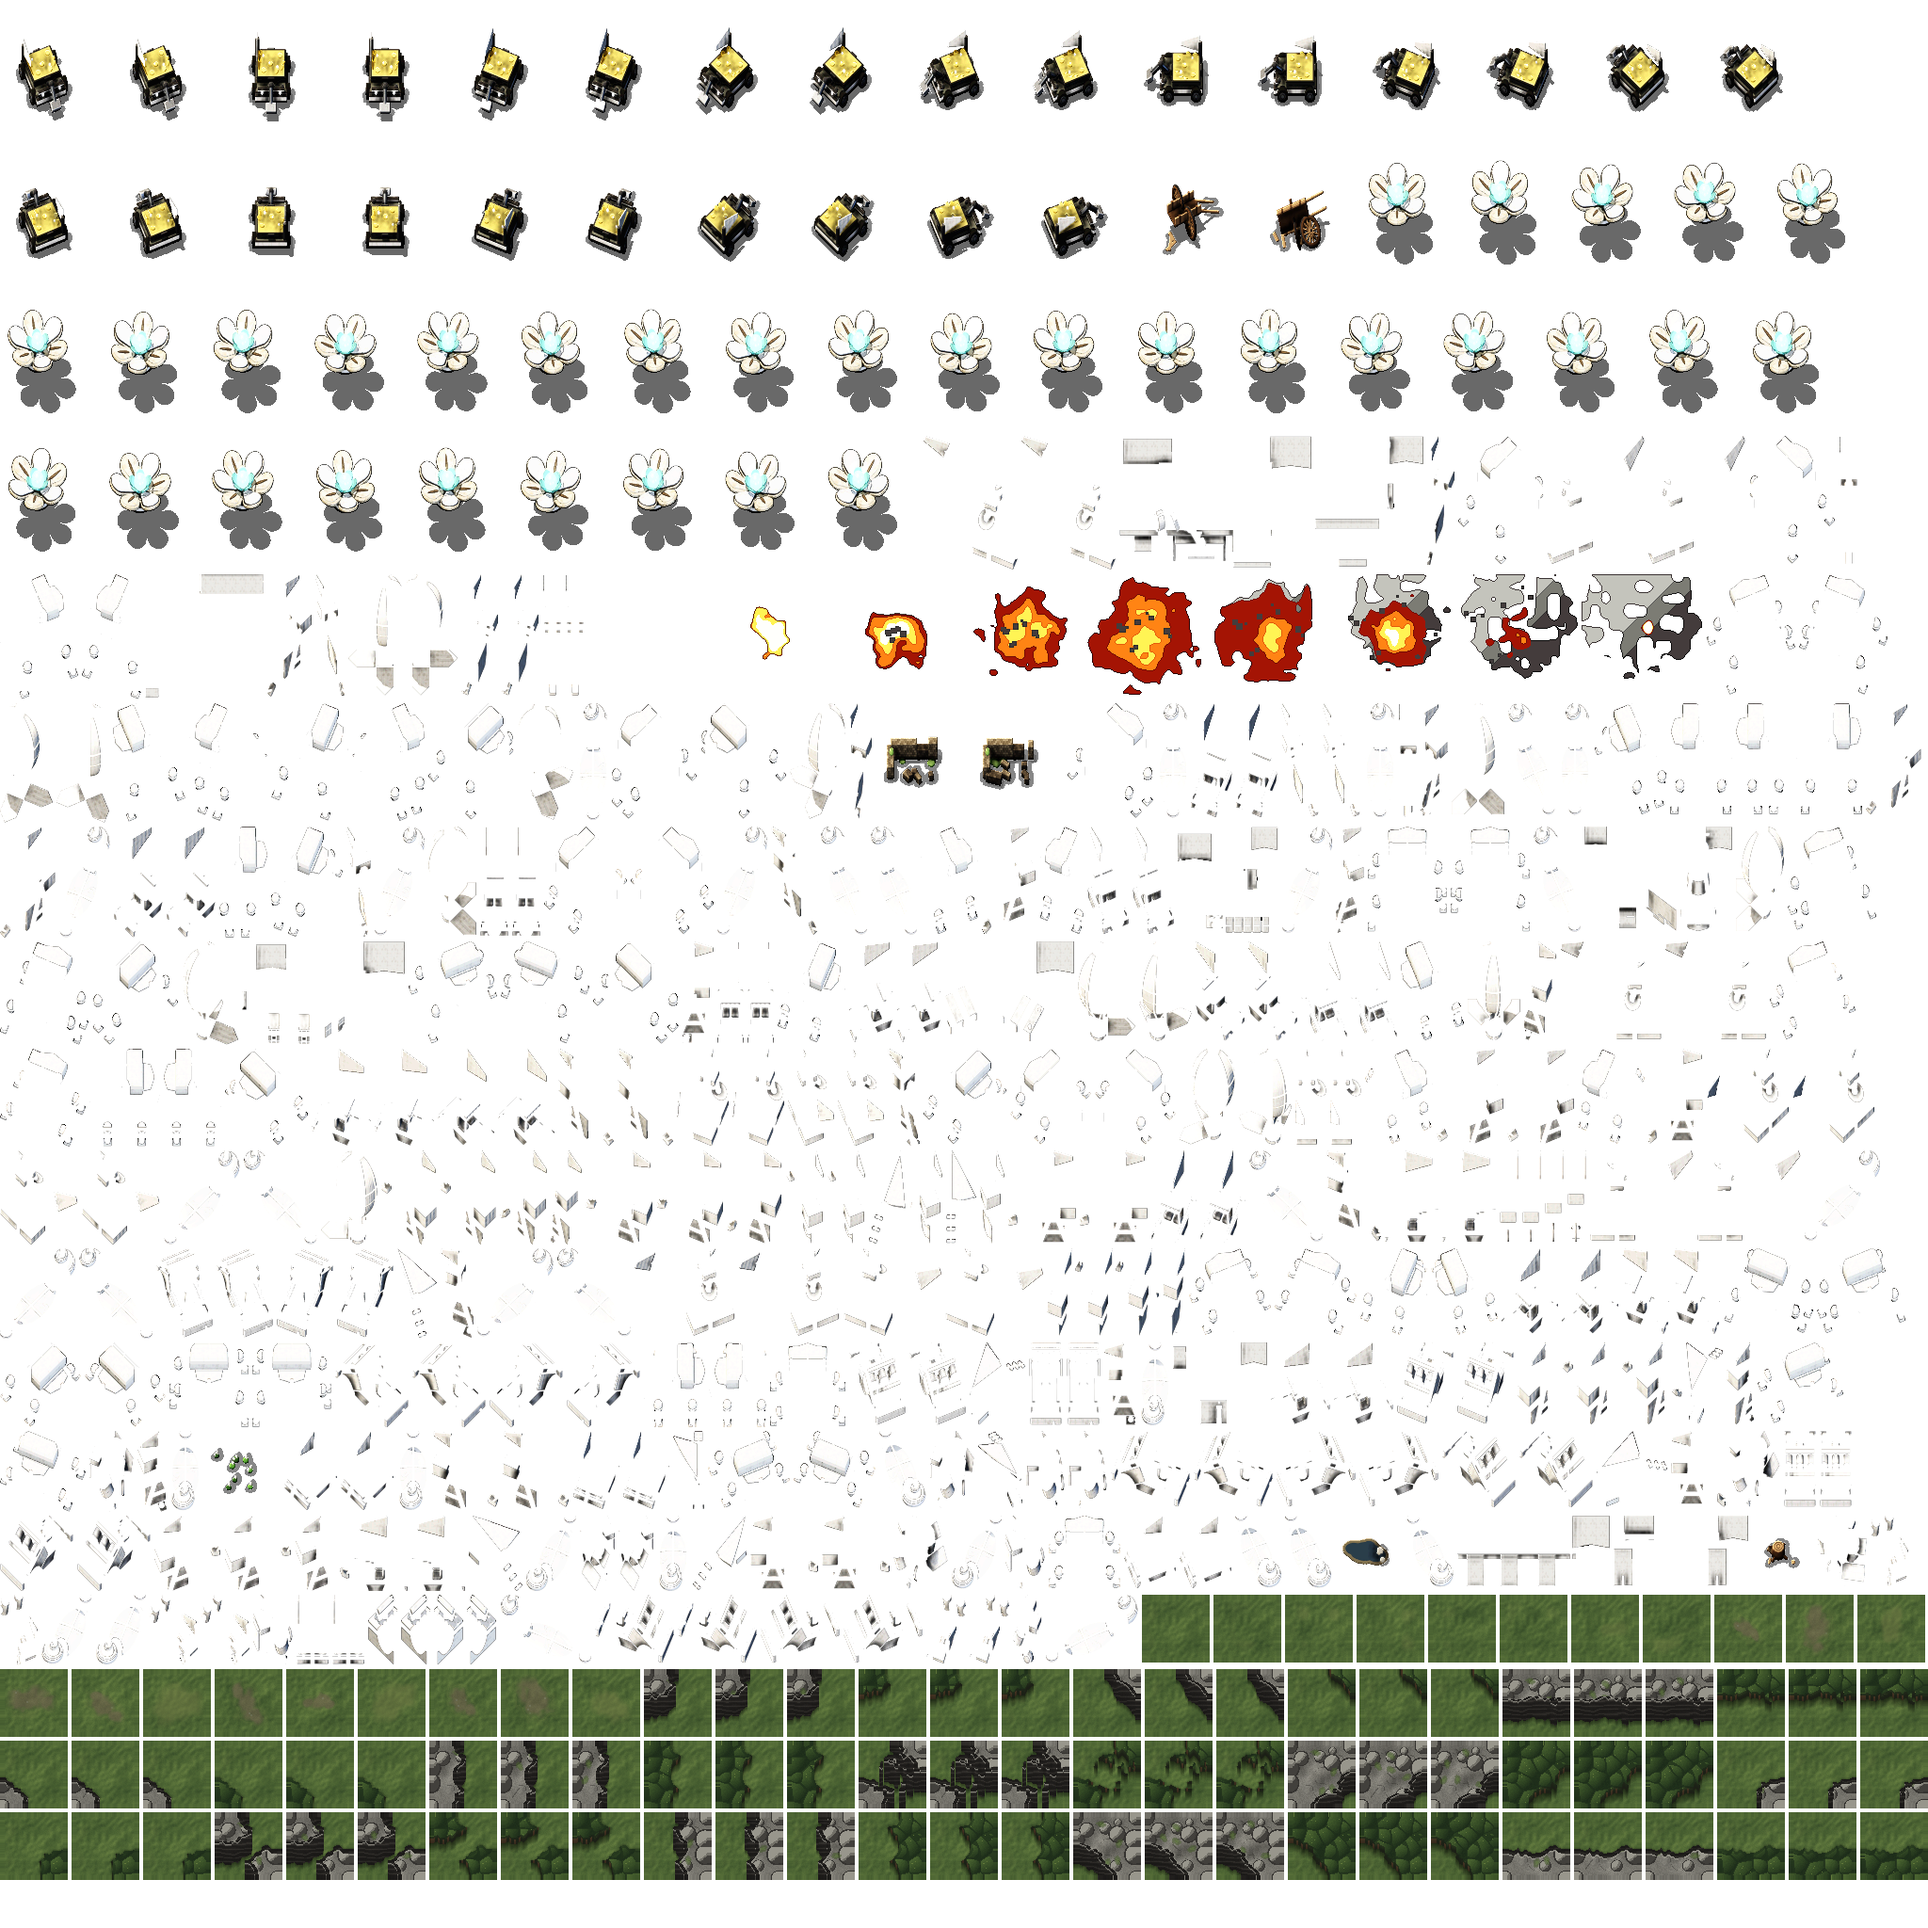
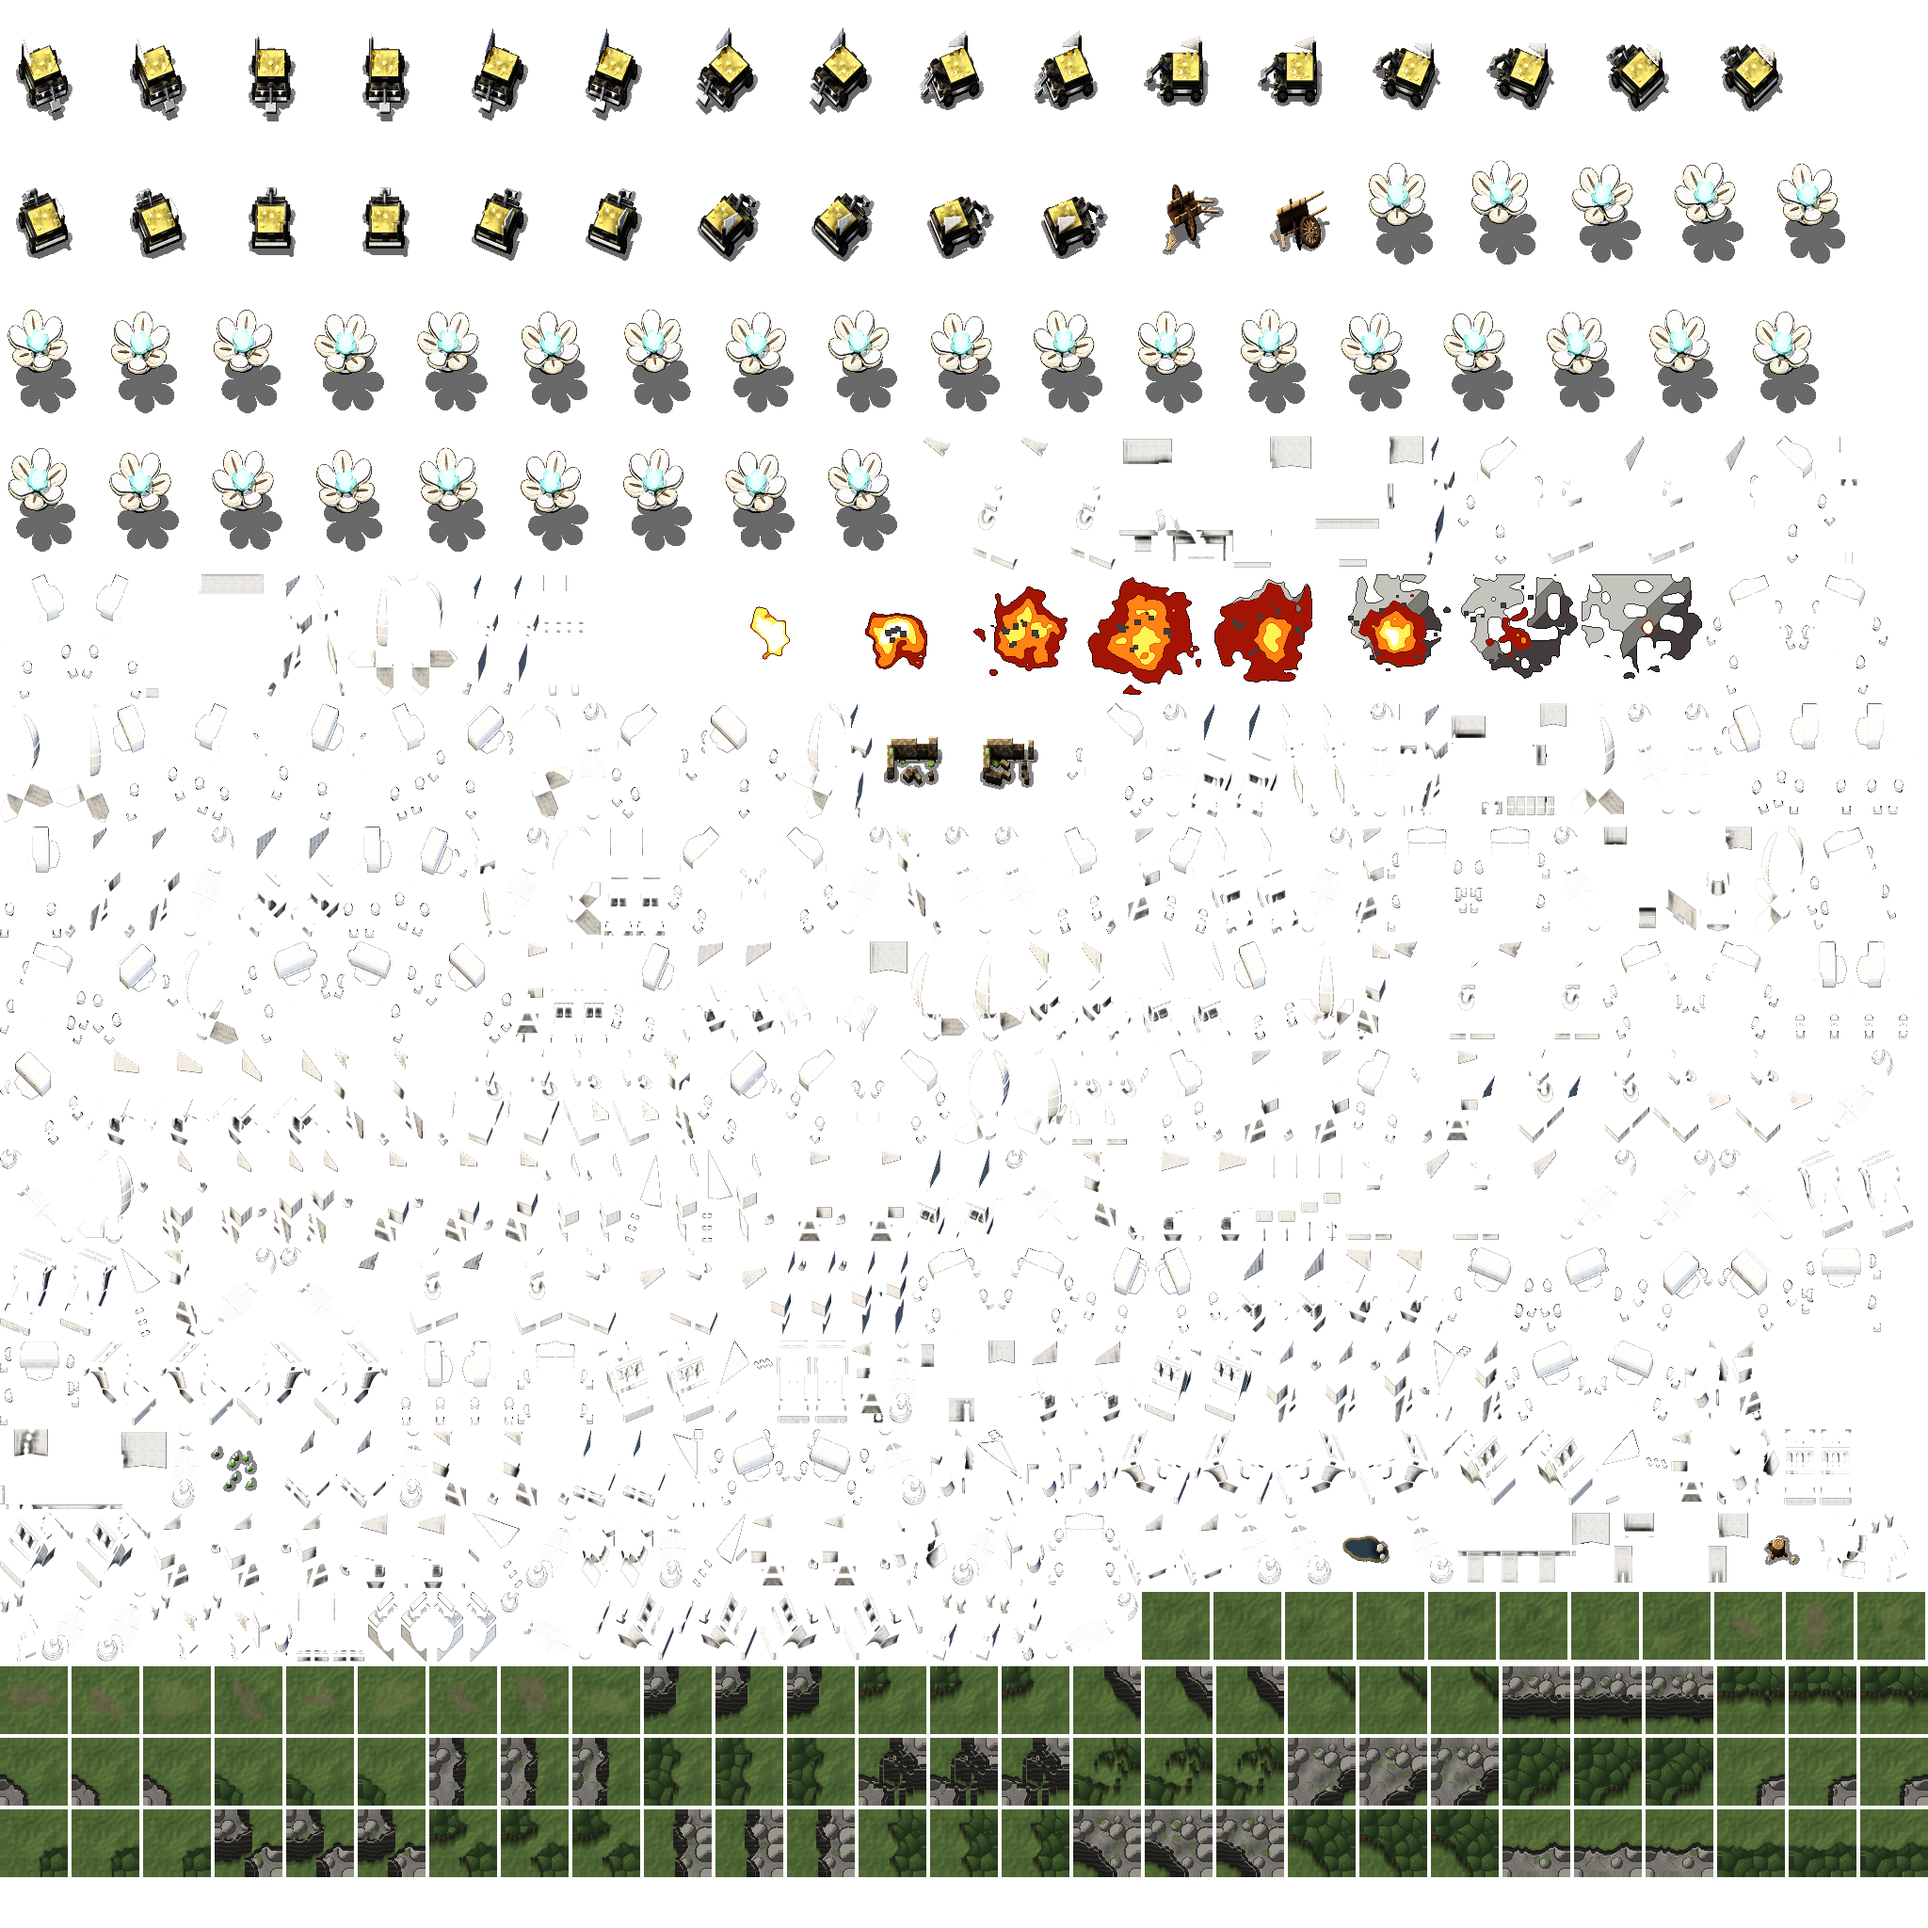
Atlas regenerated with the final Bunkhouse and Recruiting post; the Bunkhouse's lantern re-measured and its stovepipe smokes

diff --git a/src/client/look.js b/src/client/look.js
@@ -38,7 +38,7 @@ export const BLDG_LOOK = {
   turret: { head: 'turret_head' },                                                   // (the Watchtower's archer turns)
   // the Expedition: its white LEDs
   conflux: { glow: [LED, 1.1, 0.28, 0, false, -14] },                                // (the Data centre's three lit fans in its south face)
-  spire: { glow: [LED, 0.5, 0.45, 2, false, -12] },                                  // (the Bunkhouse's lantern over the door)
+  spire: { glow: [LED, 0.5, 0.45, 5, false, -12], smoke: [[13, -17]] },             // (the Bunkhouse's lantern over the door; the smoke of its stovepipe)
   kiln: { glow: [LED, 0.7, 0.4, 18, false, -4] },                                    // (the Factory's work lamp over the bay)
   loom: { glow: [LED, 1.0, 0.3, 5, false, -4] },                                     // (the Lab's lit glass front)
   ward: { head: 'ward_head', glow: [LED, 0.35, 0.5, 70, false, 0] },                 // (the Radio tower's turret turns; the LED on its mast top)
